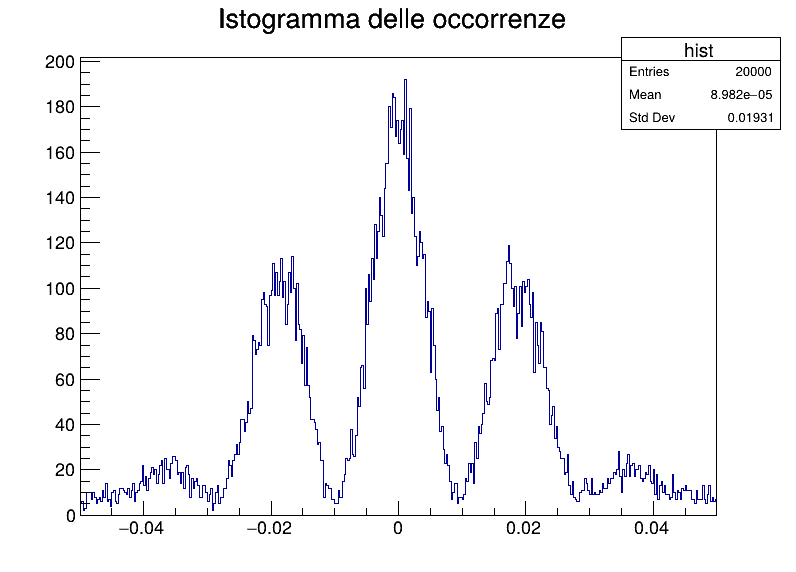
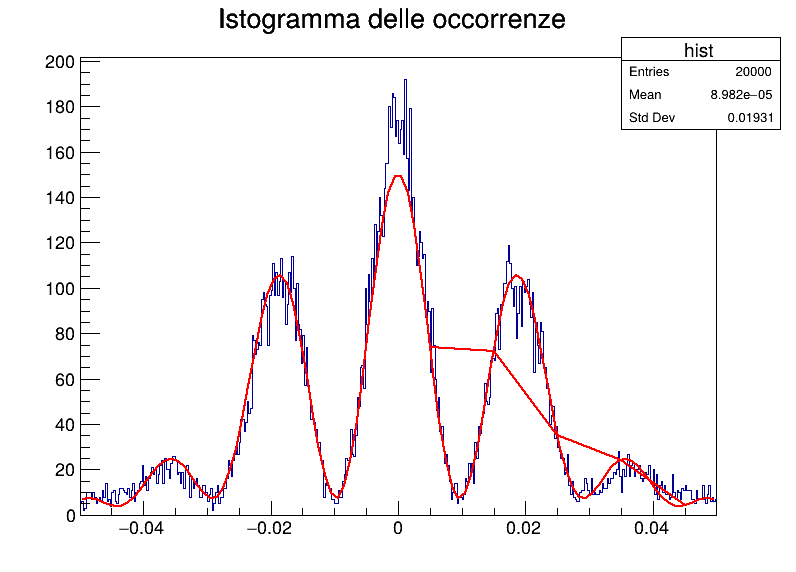
Fit

diff --git a/modulo1/double_slit.C b/modulo1/double_slit.C
@@ -38,6 +38,8 @@ class double_slit {
     TF1* f     = new TF1("Funzione da simulare", "[0] + [1] * ((sin([2]*[3]*x))/([2]*[3]*x)) * (cos([2]*[4]*x))^2");
     TH1F* hist = new TH1F("hist", "Istogramma delle occorrenze", 400, -0.05f, 0.05f);
 
+    f->SetParameters(30, 150, 4, 10, 157/4);  //TOP: (30, 150, 4, 10, 157 / 4) (0, 1, 2, 3, 4)
+    std::cout << f->GetParameter(1);
     std::ifstream inputFile("data_double_slit.txt");
     double value;
 
@@ -51,11 +53,11 @@ class double_slit {
       return;
     }
 
-    //hist->Fit(f);
+    hist->Fit(f);
 
     TCanvas* DS = new TCanvas("DS", "Hiso_DB_Slit", 800, 600);
     hist->Draw();
-    //f->Draw("same");
+    f->Draw("same");
     DS->SaveAs("Double_slit.png");
   }
 };
